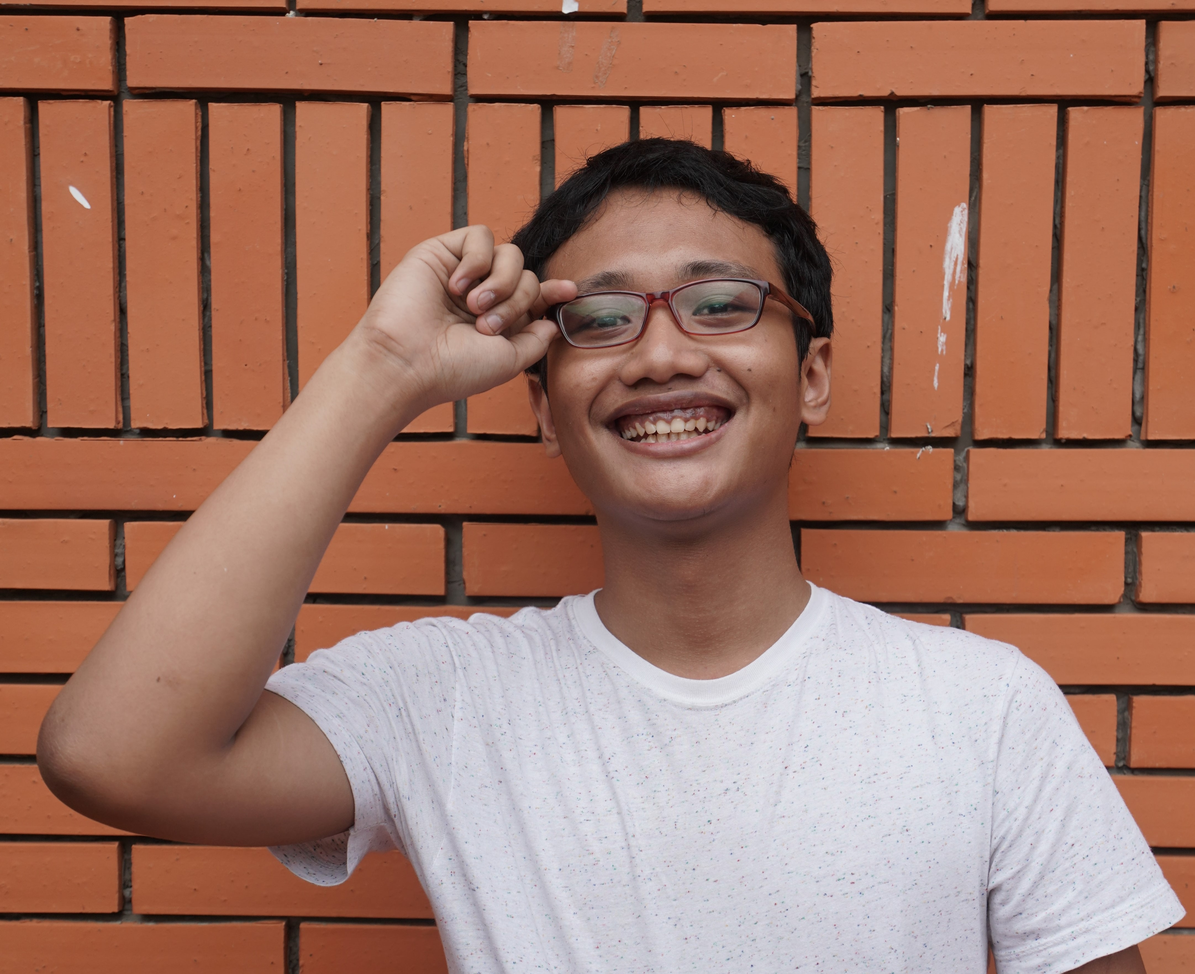
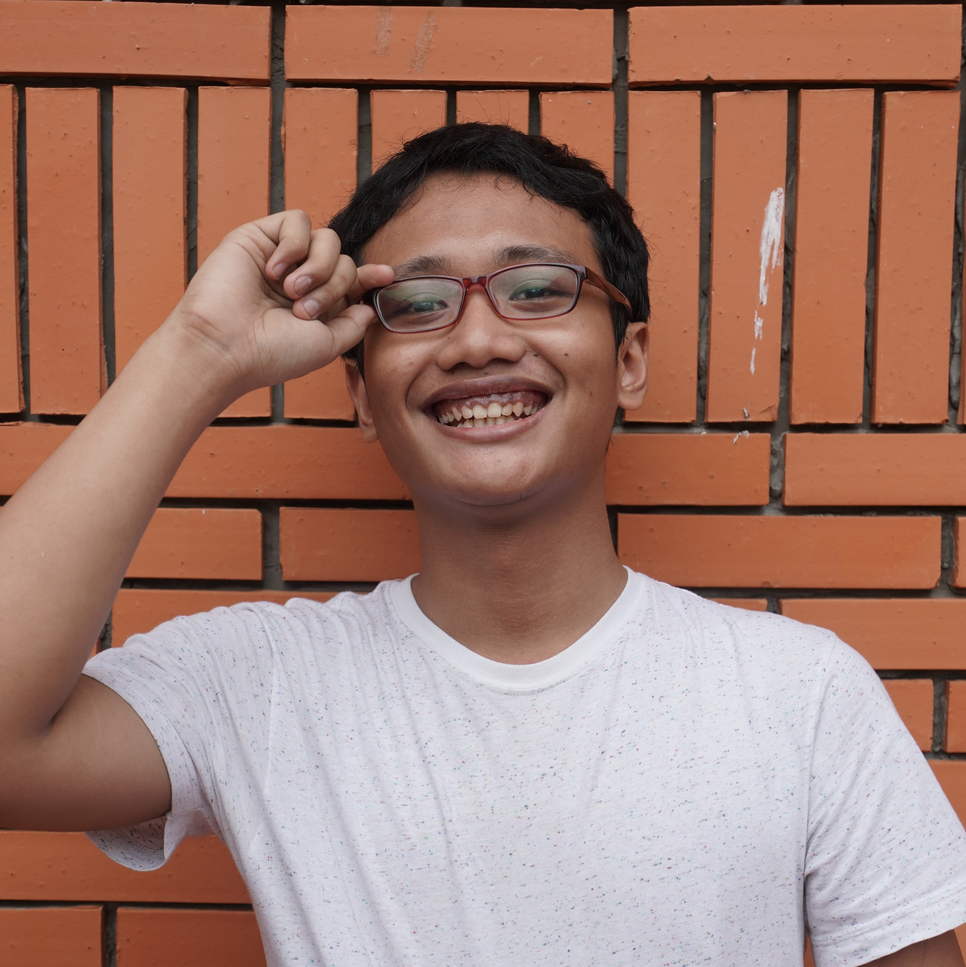
Give margin on navbar and change the photo

diff --git a/src/components/Hero.vue b/src/components/Hero.vue
@@ -1,15 +1,14 @@
 <template>
-  <v-container class="grey lighten-5">
-    <h1>Hello World</h1>
+  <v-container class="transparent lighten-5">
     <v-row no-gutters>
       <v-col cols="12" sm="6" md="8">
         <h3>Hi, I am Ihwan Edi Saputro</h3>
         <h2>An IT enjoyer that also a Computer Science Student</h2>
-        <p>
+        <div class="font-weight-medium">
           I am studying at Faculty of Computer Science Universitas Indonesia.
           It's been a long time since I started to become an IT enjoyer, and now
           I'm gonna ascend to the IT maker
-        </p>
+        </div>
         <!-- <v-card class="pa-2" outlined tile>
           .col-12 .col-sm-6 .col-md-8
         </v-card> -->
@@ -17,9 +16,16 @@
       <v-col cols="6" md="4">
         <!-- <v-card class="pa-2" outlined tile> .col-6 .col-md-4 </v-card> -->
         <v-avatar size="300">
-          <img src="../assets/my-foto.jpg" alt="John" />
+          <img src="../assets/my-foto-avatar.jpg" alt="John" />
         </v-avatar>
       </v-col>
     </v-row>
   </v-container>
 </template>
+
+<style lang="stylus" scoped>
+$mdc-typography-styles-button: (
+  font-family: unquote("Roboto"),
+  font-size: 14
+);
+</style>

diff --git a/src/App.vue b/src/App.vue
@@ -1,6 +1,5 @@
 <template>
   <v-app>
-
     <!-- Create an app bar -->
     <v-app-bar app color="primary" dark>
       <div class="d-flex align-center">
@@ -8,7 +7,10 @@
           <img src="../src/assets/my-foto-avatar.jpg" alt="Ihwanes Avatar" />
         </v-avatar>
 
-        <span class="mr-2">Ihwanes</span>
+        <v-spacer></v-spacer>
+        <div class="font-weight-medium" style="margin: 1em;">
+          <span class="mr-2">Ihwanes</span>
+        </div>
       </div>
 
       <v-spacer></v-spacer>
@@ -34,7 +36,6 @@
 </template>
 
 <script>
-
 //Import the components
 import HelloWorld from "./components/HelloWorld";
 import Table from "./components/Table";
